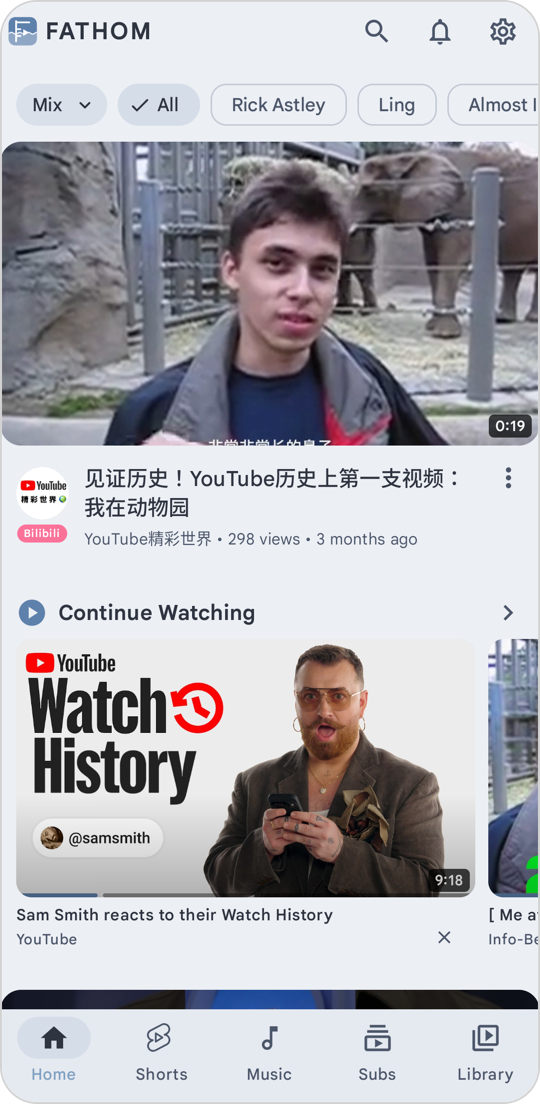
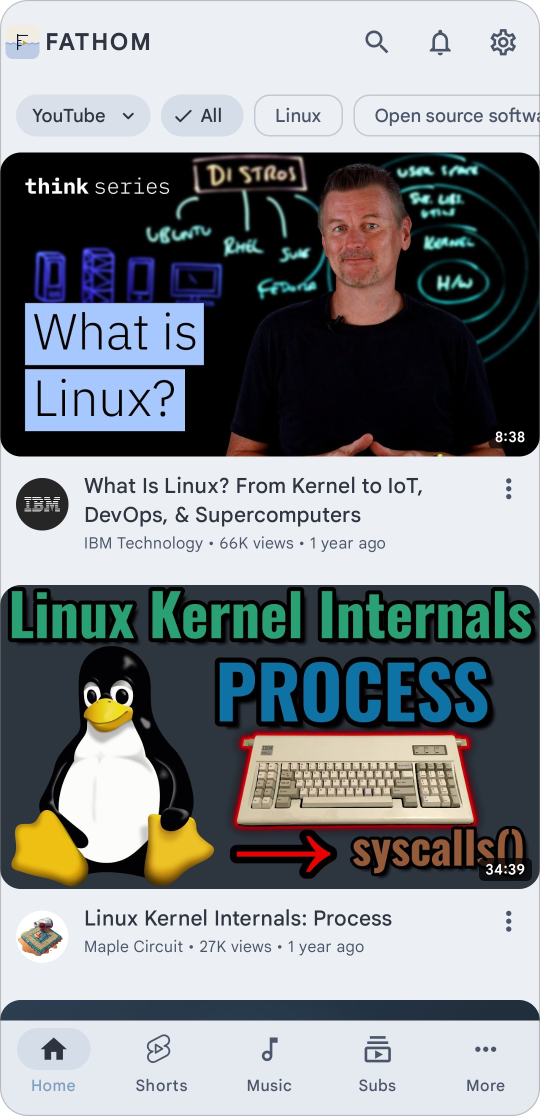
docs: refresh the README screenshots in the light theme and English
- Retake home, live and remote; add search and the launcher icon picker
- Replace the web page shot with the Video.js player
- Drop the unused watch page shot
- Mask the nicknames and avatars in the live chat shot
- Show five phone screens in the gallery and mention live chat under Bilibili

diff --git a/README.md b/README.md
@@ -43,10 +43,11 @@
 
 <table>
   <tr>
-    <td width="25%" align="center" valign="top"><img src="Assets/screenshots/home.png" alt="Home feed mixing YouTube and Bilibili"><br><sub>One feed for YouTube and Bilibili</sub></td>
-    <td width="25%" align="center" valign="top"><img src="Assets/screenshots/watch.png" alt="Watch page"><br><sub>Watch page</sub></td>
-    <td width="25%" align="center" valign="top"><img src="Assets/screenshots/live.png" alt="Bilibili live room"><br><sub>Bilibili live with danmaku</sub></td>
-    <td width="25%" align="center" valign="top"><img src="Assets/screenshots/remote.png" alt="Remote control screen"><br><sub>Phone as a remote control</sub></td>
+    <td width="20%" align="center" valign="top"><img src="Assets/screenshots/home.png" alt="Home feed tuned to your taste"><br><sub>A home feed that learns your taste</sub></td>
+    <td width="20%" align="center" valign="top"><img src="Assets/screenshots/search.png" alt="Search across YouTube and Bilibili"><br><sub>Search YouTube and Bilibili</sub></td>
+    <td width="20%" align="center" valign="top"><img src="Assets/screenshots/live.png" alt="Bilibili live room with danmaku and a chat list"><br><sub>Bilibili live with danmaku and chat</sub></td>
+    <td width="20%" align="center" valign="top"><img src="Assets/screenshots/remote.png" alt="Remote control screen"><br><sub>Phone as a remote control</sub></td>
+    <td width="20%" align="center" valign="top"><img src="Assets/screenshots/icons.png" alt="Launcher icon picker"><br><sub>Pick your launcher icon</sub></td>
   </tr>
 </table>
 
@@ -99,6 +100,7 @@ No web view. A Kotlin client talks to Bilibili's web API directly.
 
 - Search, channels (uploads, series, seasons), playback, quality, multi-part videos
 - Comments and danmaku, the comments that scroll across the video
+- Live rooms, with danmaku over the video and a chat list that shows avatars and super chats
 - Subscriptions, history, likes and playlists, alongside YouTube's
 
 ## 🧠 FlowNeuro

diff --git a/README.zh-TW.md b/README.zh-TW.md
@@ -43,10 +43,11 @@
 
 <table>
   <tr>
-    <td width="25%" align="center" valign="top"><img src="Assets/screenshots/home.png" alt="混合 YouTube 與 Bilibili 的首頁"><br><sub>YouTube 與 Bilibili 同一個首頁</sub></td>
-    <td width="25%" align="center" valign="top"><img src="Assets/screenshots/watch.png" alt="播放頁"><br><sub>播放頁</sub></td>
-    <td width="25%" align="center" valign="top"><img src="Assets/screenshots/live.png" alt="Bilibili 直播間"><br><sub>Bilibili 直播與彈幕</sub></td>
-    <td width="25%" align="center" valign="top"><img src="Assets/screenshots/remote.png" alt="遙控器畫面"><br><sub>手機變遙控器</sub></td>
+    <td width="20%" align="center" valign="top"><img src="Assets/screenshots/home.png" alt="依你的口味調整的首頁"><br><sub>會學習你口味的首頁</sub></td>
+    <td width="20%" align="center" valign="top"><img src="Assets/screenshots/search.png" alt="同時搜尋 YouTube 與 Bilibili"><br><sub>YouTube 與 Bilibili 一起搜尋</sub></td>
+    <td width="20%" align="center" valign="top"><img src="Assets/screenshots/live.png" alt="有彈幕和聊天室的 Bilibili 直播間"><br><sub>Bilibili 直播、彈幕與聊天室</sub></td>
+    <td width="20%" align="center" valign="top"><img src="Assets/screenshots/remote.png" alt="遙控器畫面"><br><sub>手機變遙控器</sub></td>
+    <td width="20%" align="center" valign="top"><img src="Assets/screenshots/icons.png" alt="啟動圖示選擇"><br><sub>自選啟動圖示</sub></td>
   </tr>
 </table>
 
@@ -97,6 +98,7 @@
 
 - 搜尋、頻道(投稿、系列、合集)、播放、畫質切換、多分 P
 - 留言與彈幕
+- 直播間：影片上有彈幕，另有顯示頭像和醒目留言的聊天室
 - 訂閱、觀看紀錄、按讚和播放清單,與 YouTube 並列管理
 
 ## 🧠 FlowNeuro
